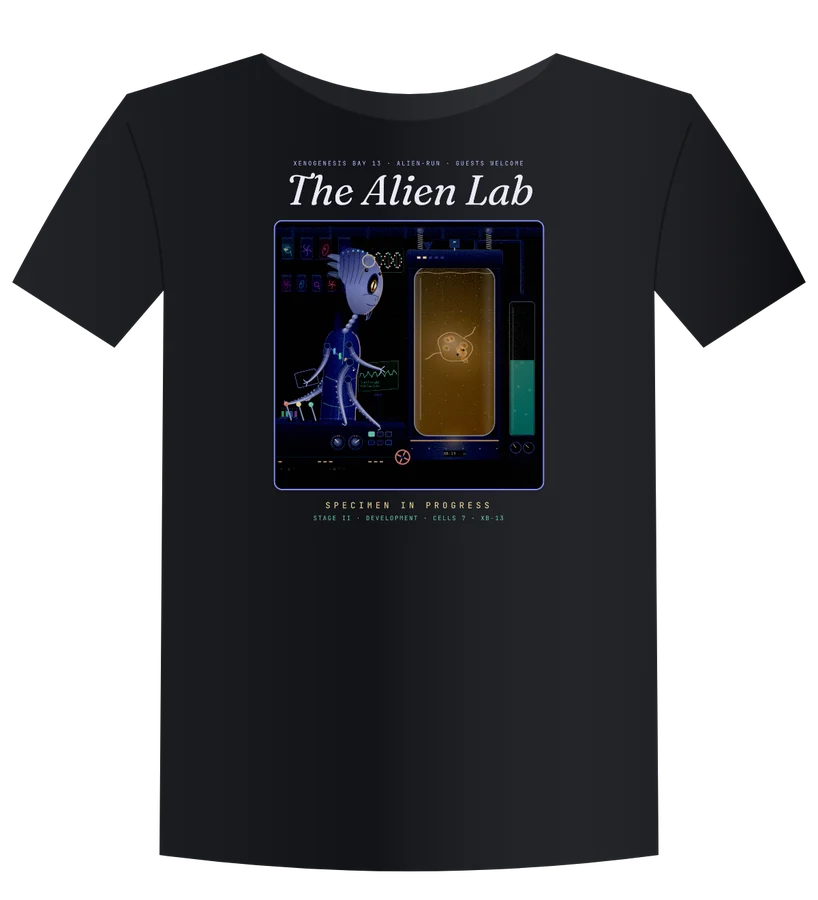
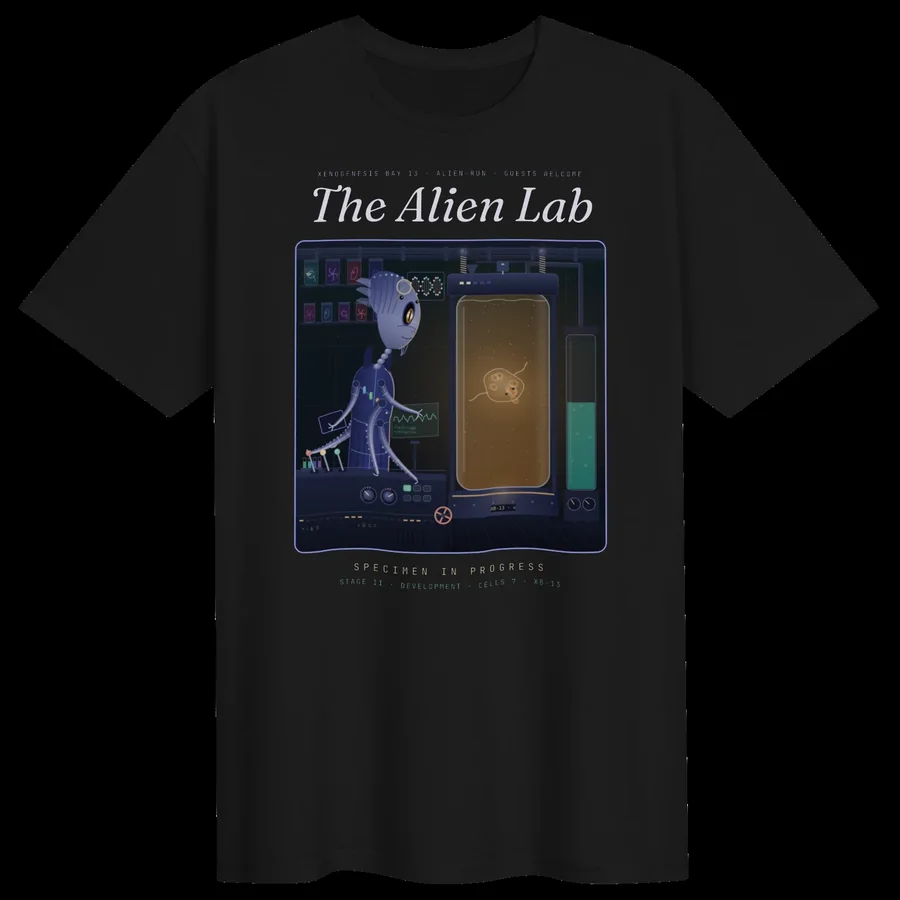
Ver 5.73 Real product photos in the shop
Shop cards now use Fourthwall's own front and back photos, cropped square
and filling the card. Neon Emblem Tee and Mark Hat descriptions match the
real products.

Claude-Session: https://claude.ai/code/session_01NKXNMm4Qwyv38Ybn6ZQ22m

diff --git a/lib/shop.js b/lib/shop.js
@@ -61,7 +61,9 @@ const TEE_SIZES = ["S", "M", "L", "XL", "2XL", "3XL"];
 //   name, blurb   what the card says
 //   details       one small line: garment and how it's decorated
 //   price         a number, in SHOP.currency (keep it the same as Fourthwall)
-//   images        { front, back } pictures; back is optional
+//   images        { front, back, photo } pictures; back is optional.
+//                 photo: true = a square product photo that fills the
+//                 card edge to edge (Fourthwall's own photos)
 //   options       optional: { label, values } (sizes etc.)
 //   color         optional: the colour shown
 //   fourthwallUrl the product's page on Fourthwall ("" until it exists)
@@ -73,11 +75,11 @@ export const PRODUCTS = [
     id: "neon-emblem-tee",
     collection: "originals",
     name: "13i Neon Emblem Tee",
-    blurb: "The 13i emblem in steel and blue light across the chest, the eye lit from inside.",
+    blurb: "The brushed-steel 13i across the chest, its eye lit blue. The mark at the back of the neck, and www.13i.space low on the back.",
     details: "Cotton tee · printed",
     price: 18.45,
     color: "Black",
-    images: { front: "/shop/neon-emblem-tee-front.webp" },
+    images: { front: "/shop/neon-emblem-tee-front.webp", back: "/shop/neon-emblem-tee-back.webp", photo: true },
     options: { label: "Size", values: ["S", "M", "L", "XL", "2XL", "3XL", "4XL", "5XL"] },
     fourthwallUrl: "https://13i-shop.fourthwall.com/products/13i-neon-emblem-tee",
   },
@@ -103,7 +105,7 @@ export const PRODUCTS = [
     details: "Cotton tee · printed",
     price: 18.45,
     color: "Black",
-    images: { front: "/shop/transmission-tee-front.webp", back: "/shop/transmission-tee-back.webp" },
+    images: { front: "/shop/transmission-tee-front.webp", back: "/shop/transmission-tee-back.webp", photo: true },
     options: { label: "Size", values: TEE_SIZES },
     fourthwallUrl: "https://13i-shop.fourthwall.com/products/transmission-tee",
   },
@@ -111,11 +113,11 @@ export const PRODUCTS = [
     id: "mark-hat",
     collection: "originals",
     name: "The Mark Hat",
-    blurb: "Just the ring-eye mark, stitched on the front. The quiet way to wear it, and the one people will ask about.",
+    blurb: "Just the ring-eye mark, stitched in blue on the front. The quiet way to wear it, and the one people will ask about.",
     details: "Unstructured cotton cap · embroidered",
     price: 18.65,
     color: "Black",
-    images: { front: "/shop/mark-hat-front.webp" },
+    images: { front: "/shop/mark-hat-front.webp", back: "/shop/mark-hat-back.webp", photo: true },
     options: { label: "Fit", values: ["One size"] },
     fourthwallUrl: "https://13i-shop.fourthwall.com/products/13i-mark-hat",
   },
@@ -127,7 +129,7 @@ export const PRODUCTS = [
     details: "Pullover hoodie · embroidered front, printed back",
     price: 36.24,
     color: "Black",
-    images: { front: "/shop/mark-hoodie-front.webp", back: "/shop/mark-hoodie-back.webp" },
+    images: { front: "/shop/mark-hoodie-front.webp", back: "/shop/mark-hoodie-back.webp", photo: true },
     options: { label: "Size", values: TEE_SIZES },
     fourthwallUrl: "https://13i-shop.fourthwall.com/products/13i-mark-hoodie",
   },
@@ -139,7 +141,7 @@ export const PRODUCTS = [
     details: "Cotton tee · printed",
     price: 18.45,
     color: "Black",
-    images: { front: "/shop/kin-tee-front.webp", back: "/shop/kin-tee-back.webp" },
+    images: { front: "/shop/kin-tee-front.webp", back: "/shop/kin-tee-back.webp", photo: true },
     options: { label: "Size", values: TEE_SIZES },
     fourthwallUrl: "https://13i-shop.fourthwall.com/products/kinship-everyone-is-kin-tee",
   },
@@ -151,7 +153,7 @@ export const PRODUCTS = [
     details: "Crewneck sweatshirt · printed",
     price: 27.74,
     color: "Indigo Blue",
-    images: { front: "/shop/epc-crew-front.webp", back: "/shop/epc-crew-back.webp" },
+    images: { front: "/shop/epc-crew-front.webp", back: "/shop/epc-crew-back.webp", photo: true },
     options: { label: "Size", values: ["S", "M", "L", "XL", "2XL", "3XL", "4XL", "5XL"] },
     fourthwallUrl: "https://13i-shop.fourthwall.com/products/explore-play-create-sweatshirt",
   },
@@ -163,7 +165,7 @@ export const PRODUCTS = [
     details: "Cotton tee · printed",
     price: 18.45,
     color: "Black",
-    images: { front: "/shop/alien-lab-tee-front.webp", back: "/shop/alien-lab-tee-back.webp" },
+    images: { front: "/shop/alien-lab-tee-front.webp", back: "/shop/alien-lab-tee-back.webp", photo: true },
     options: { label: "Size", values: TEE_SIZES },
     fourthwallUrl: "https://13i-shop.fourthwall.com/products/the-alien-lab-sci-fi-t-shirt",
   },
@@ -175,7 +177,7 @@ export const PRODUCTS = [
     details: "Cotton tee · printed",
     price: 18.45,
     color: "Black",
-    images: { front: "/shop/alien-rave-tee-front.webp", back: "/shop/alien-rave-tee-back.webp" },
+    images: { front: "/shop/alien-rave-tee-front.webp", back: "/shop/alien-rave-tee-back.webp", photo: true },
     options: { label: "Size", values: TEE_SIZES },
     fourthwallUrl: "https://13i-shop.fourthwall.com/products/the-alien-rave-neon-sci-fi-tee",
   },

diff --git a/app/globals.css b/app/globals.css
@@ -2464,6 +2464,8 @@ a.kr-card:hover { border-color: rgba(233,210,154,.5); transform: translateY(-2px
 .shop-card:hover { border-color: var(--lavender-mid); transform: translateY(-3px); background: rgba(20, 23, 55, .85); }
 .shop-stage { position: relative; aspect-ratio: 1 / 1; max-width: 100%; background: radial-gradient(70% 62% at 50% 44%, #1E2152 0%, #0D0E24 78%); display: grid; place-items: center; overflow: hidden; }
 .shop-stage img { width: 88%; height: auto; display: block; }
+.shop-stage-photo { background: #000; }
+.shop-stage-photo img { width: 100%; height: 100%; object-fit: cover; }
 .shop-stage-empty { font-size: 11px; letter-spacing: .2em; color: var(--muted-dim); }
 .shop-side { position: absolute; top: 10px; right: 10px; display: flex; border: 1px solid var(--border); border-radius: 3px; overflow: hidden; }
 .shop-side button { font-family: var(--font-mono); font-size: 10px; letter-spacing: .1em; text-transform: uppercase; background: rgba(10, 11, 28, .75); color: var(--muted); border: 0; padding: 5px 9px; cursor: pointer; }

diff --git a/components/shop/ProductCard.js b/components/shop/ProductCard.js
@@ -21,7 +21,7 @@ export default function ProductCard({ product, index = 0 }) {
 
   return (
     <article className="shop-card" style={{ "--i": index }}>
-      <div className="shop-stage">
+      <div className={`shop-stage${product.images && product.images.photo ? " shop-stage-photo" : ""}`}>
         {src ? (
           <img src={src} alt={`${product.name}, ${side}`} loading="lazy" width="900" height="900" />
         ) : (

diff --git a/lib/version.js b/lib/version.js
@@ -1,7 +1,7 @@
 // The site's version (Update 5.56). Bump SITE_VERSION with each update - it
 // matches the "Ver x.yy" in commit messages and docs/CHANGELOG.md. The
 // commit and deploy details come from Vercel's own environment variables.
-export const SITE_VERSION = "5.72";
+export const SITE_VERSION = "5.73";
 
 export function versionInfo() {
   const sha = process.env.VERCEL_GIT_COMMIT_SHA || "";

diff --git a/docs/CHANGELOG.md b/docs/CHANGELOG.md
@@ -3,6 +3,16 @@
 Major features, architectural decisions, and significant fixes only — not
 every small edit. Newest at the top.
 
+## Update 5.73 — Real product photos in the shop (Oct 2026)
+No SQL.
+- Every shop card now shows Fourthwall's own product photos (front and
+  back) instead of drawn mockups, cropped square in public/shop/
+  (`images.photo: true` in lib/shop.js makes a photo fill the card).
+  Originals are on Paul's Mac in Shop Print Files/fourthwall (fw-<id>-1 is
+  the front, -2 the back).
+- Neon Emblem Tee and Mark Hat descriptions corrected to match the
+  actual products.
+
 ## Update 5.72 — The shop opens (Oct 2026)
 No SQL.
 - All eight pieces now have live Buy buttons linked to their Fourthwall

diff --git a/docs/CURRENT.md b/docs/CURRENT.md
@@ -7,8 +7,8 @@ snapshot, not a history — see CHANGELOG.md for the record over time.
 - Update 5.72 (no SQL): the shop is open - all eight products link to
   their pages on 13i-shop.fourthwall.com with Fourthwall's prices. Prices
   are typed into lib/shop.js, so a price change in Fourthwall needs the
-  same change there. Product pictures are Claude's renders, not
-  Fourthwall's photos.
+  same change there. Product pictures are Fourthwall's own photos
+  (Update 5.73).
 - Update 5.71 (no SQL): the 13i Shop at /shop (footer link). Products live
   in lib/shop.js; Buy buttons go to Fourthwall, which runs checkout and
   fulfillment. All buy links are empty until the Fourthwall products exist,

diff --git a/docs/SHOP.md b/docs/SHOP.md
@@ -37,7 +37,10 @@ card.
    read prices from Fourthwall yet (see "Possible next step" below).
 5. New product: add an entry to `PRODUCTS` (copy an existing one), and put
    its pictures in `public/shop/` named `<id>-front.webp` and
-   `<id>-back.webp`.
+   `<id>-back.webp`. The pictures are Fourthwall's own product photos,
+   cropped square (set `photo: true` in `images`). Fourthwall's shop grid
+   shows the back on hover, so save photos from the product page; its
+   first gallery image is the front and the second is the back.
 6. To take a product off the page without deleting it, set `hidden: true`.
 
 When at least one product has a link, the page's status reads "Open" and the
